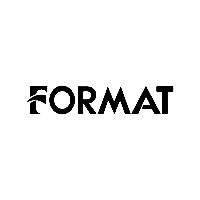
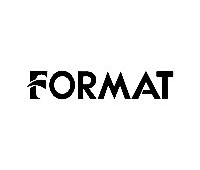
Edited Assets
Removed duplicate assets.

diff --git a/projects.html b/projects.html
@@ -60,7 +60,7 @@
                 <button type="button" class="collapsible" onclick="showPopup6()">More Information →</button>
             </div>
             <div class="project-card">
-                <img src="Assets/formatx2.jpg" alt="FormatX">
+                <img src="Assets/formatx.jpg" alt="FormatX">
                 <h3>FormatX</h3>
                 <p>Built Using Python, HTML, CSS, & Flask</p>
                 <button type="button" class="collapsible" onclick="showPopup3()">More Information →</button>
